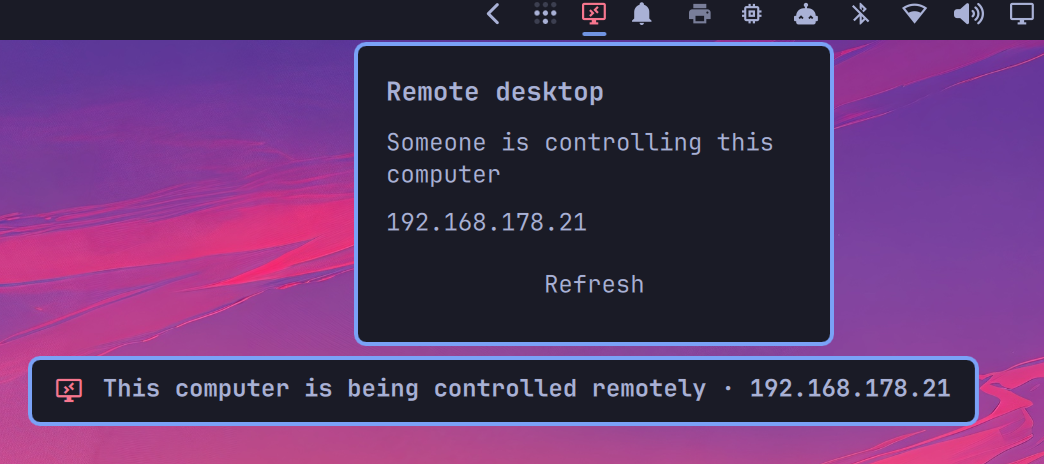
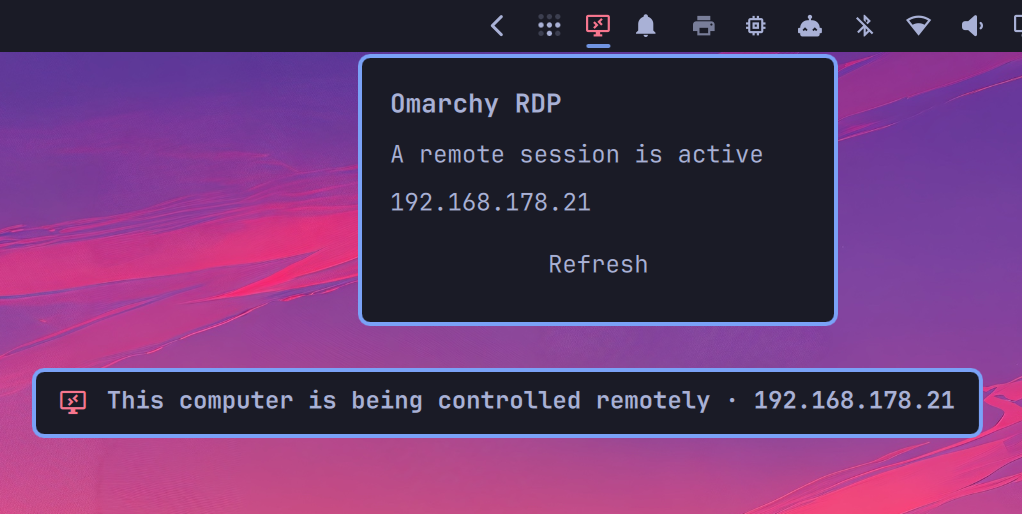
update: naming

diff --git a/Panel.qml b/Panel.qml
@@ -24,9 +24,9 @@ Panel {
     return u
   }
   property string label: ""
-  property string tooltipText: "Remote desktop — not in use"
-  property string connectionText: "No one is connected"
-  property string connectionIps: "Waiting for a remote desktop client"
+  property string tooltipText: "Omarchy RDP — no session"
+  property string connectionText: "No active session"
+  property string connectionIps: "Waiting for a connection"
   property string connectionStatus: "disconnected"
   readonly property bool connected: connectionStatus === "connected"
 
@@ -63,14 +63,14 @@ Panel {
       root.connectionStatus = klass
       if (klass === "connected" && text.length > 0) {
         root.label = text
-        root.tooltipText = tip.replace(/\\n/g, "\n") || ("Remote desktop\n" + text)
-        root.connectionText = "Someone is controlling this computer"
+        root.tooltipText = tip.replace(/\\n/g, "\n") || ("Omarchy RDP\n" + text)
+        root.connectionText = "A remote session is active"
         root.connectionIps = text
       } else {
         root.label = ""
-        root.tooltipText = "Remote desktop — not in use"
-        root.connectionText = "No one is connected"
-        root.connectionIps = "Waiting for a remote desktop client"
+        root.tooltipText = "Omarchy RDP — no session"
+        root.connectionText = "No active session"
+        root.connectionIps = "Waiting for a connection"
       }
     } catch (e) {
       console.error("Failed to parse remote desktop status: " + e)
@@ -128,7 +128,7 @@ Panel {
 
         Text {
           width: parent.width
-          text: "Remote desktop"
+          text: "Omarchy RDP"
           color: root.barForeground
           font.family: root.bar ? root.bar.fontFamily : Style.font.family
           font.pixelSize: Style.font.subtitle

diff --git a/BarWidget.qml b/BarWidget.qml
@@ -15,7 +15,7 @@ BarWidget {
   readonly property bool popoutSwitchClosing: panelLoader.item
     ? panelLoader.item.popoutSwitchClosing === true
     : false
-  readonly property string tooltipText: panelLoader.item ? panelLoader.item.tooltipText : "Remote desktop"
+  readonly property string tooltipText: panelLoader.item ? panelLoader.item.tooltipText : "Omarchy RDP"
   readonly property bool connected: panelLoader.item ? panelLoader.item.connected : false
   readonly property string controllerIp: {
     if (!root.connected || !panelLoader.item) return ""

diff --git a/README.md b/README.md
@@ -1,12 +1,10 @@
-# Remote Desktop
+# Omarchy RDP
 
-A small Omarchy bar icon that tells you when someone is controlling this computer over remote desktop.
+A small Omarchy bar icon that tells you when someone is controlling this computer over **Remote Desktop Protocol (RDP)** — the same protocol Microsoft Remote Desktop, Windows App, Remmina, and FreeRDP use.
 
 ![Preview](screenshot.png)
 
-It does **not** turn on remote desktop by itself. You still need [hypr-rdp](https://github.com/hyprwm/hypr-rdp) (or another RDP server) running on this machine. This plugin only watches for a live connection and makes it obvious.
-
-RDP means Remote Desktop Protocol — the same thing Microsoft Remote Desktop / Windows App uses.
+It does **not** start an RDP server. You still need [hypr-rdp](https://github.com/hyprwm/hypr-rdp) (or another RDP server) running on this machine. This plugin only watches for a live connection and makes it obvious.
 
 ## Before you start
 
